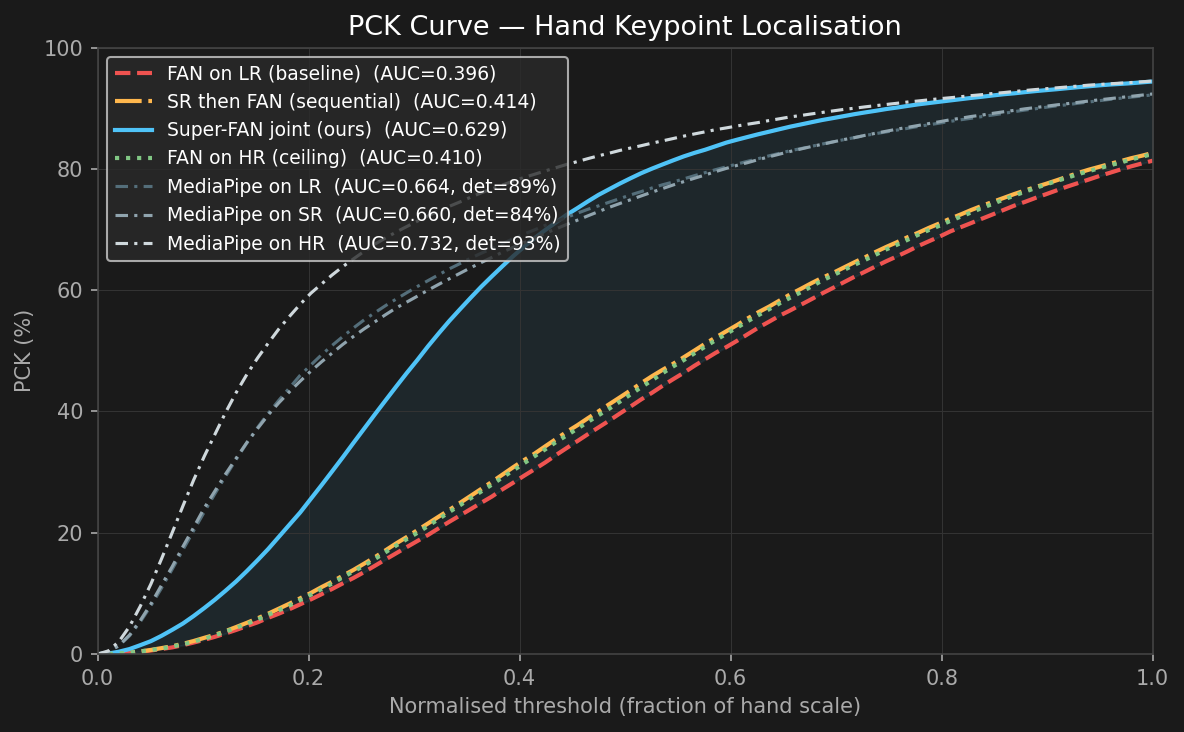
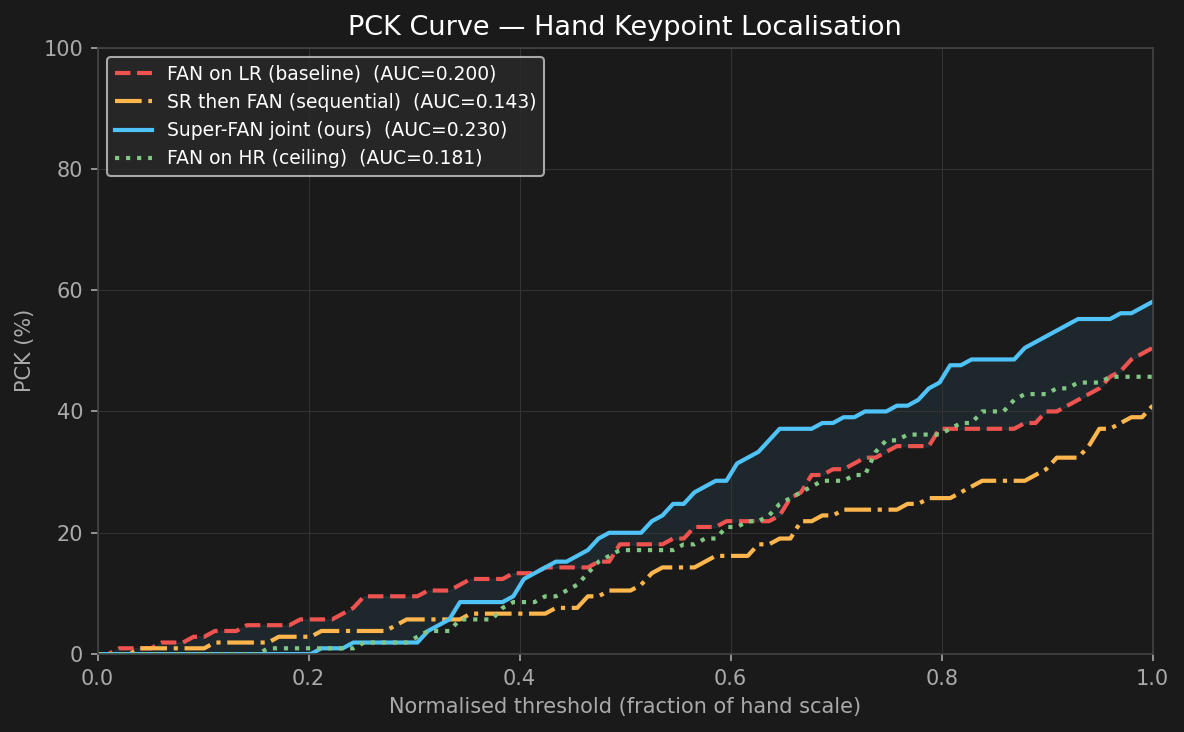
small fixes

diff --git a/eval/visualize.py b/eval/visualize.py
@@ -4,7 +4,7 @@ visualize.py
 Visual evaluation for Super-FAN hands.
 
 Produces a grid of side-by-side comparisons:
-    LR input (16x16) | SR output (64x64) | HR ground truth (64x64)
+    LR input (32x32) | SR output (128x128) | HR ground truth (128x128)
 
 With skeleton overlaid on both SR and HR panels using predicted and GT
 keypoints respectively, so misalignments are immediately visible.
@@ -457,4 +457,4 @@ if __name__ == "__main__":
     )
     if mp_predictor is not None:
         mp_predictor.close()
-    print(f"\nAll outputs saved to {args.out}/")
+    print(f"\nAll outputs saved to {args.out.rstrip('/')}/")